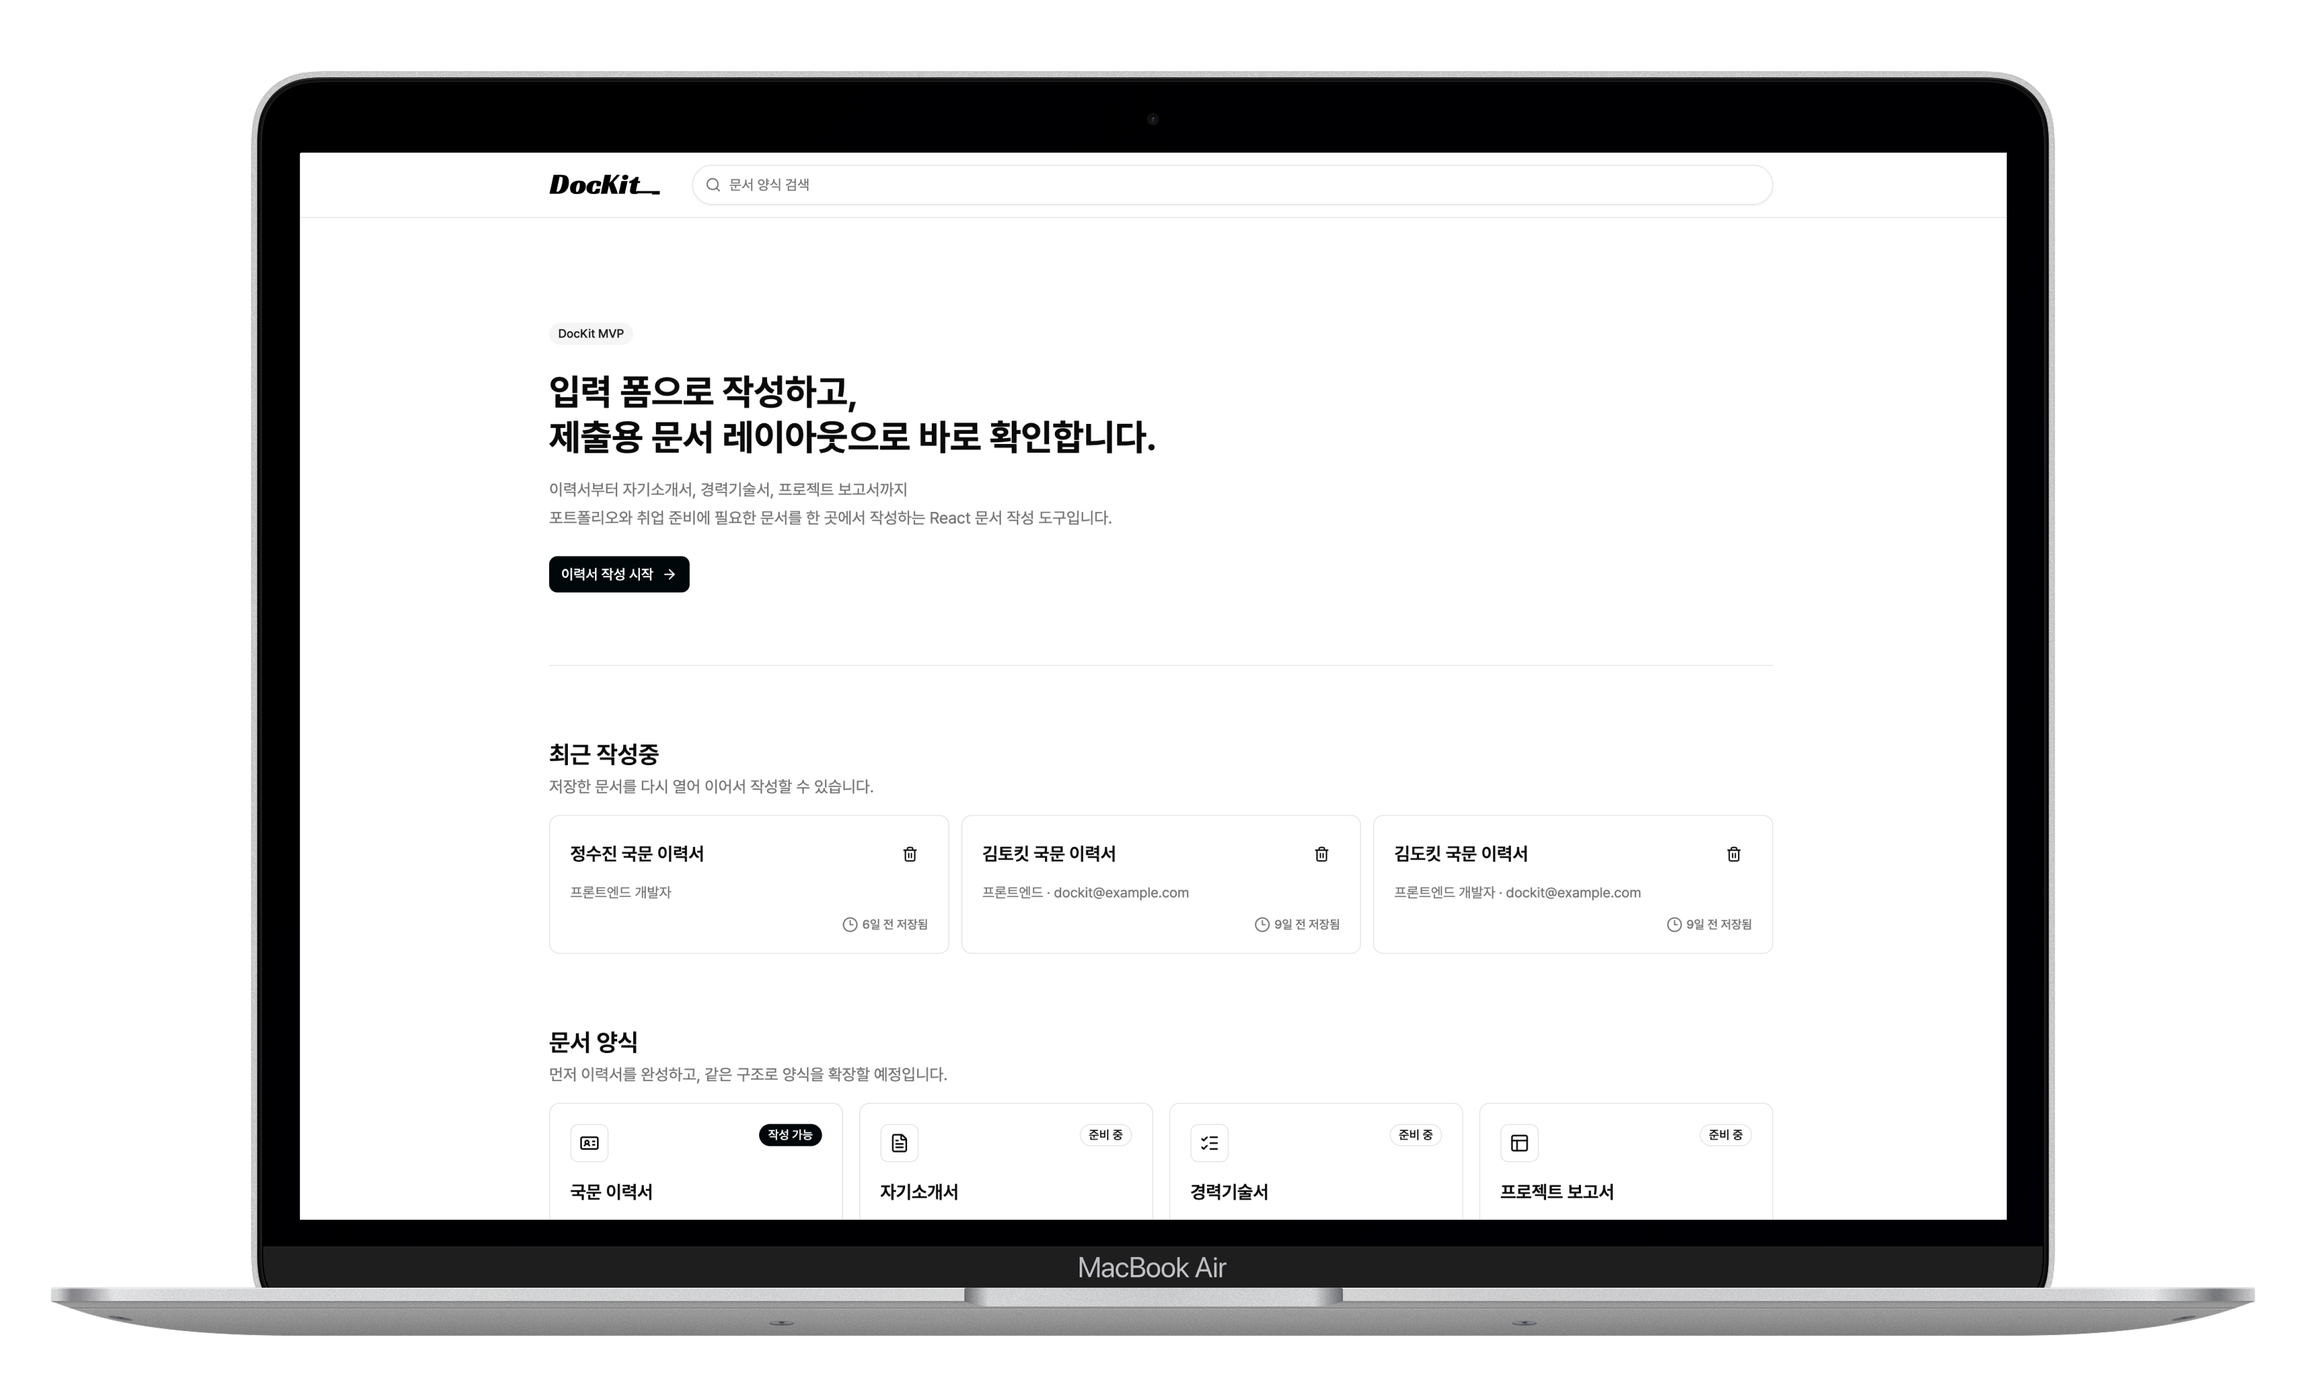
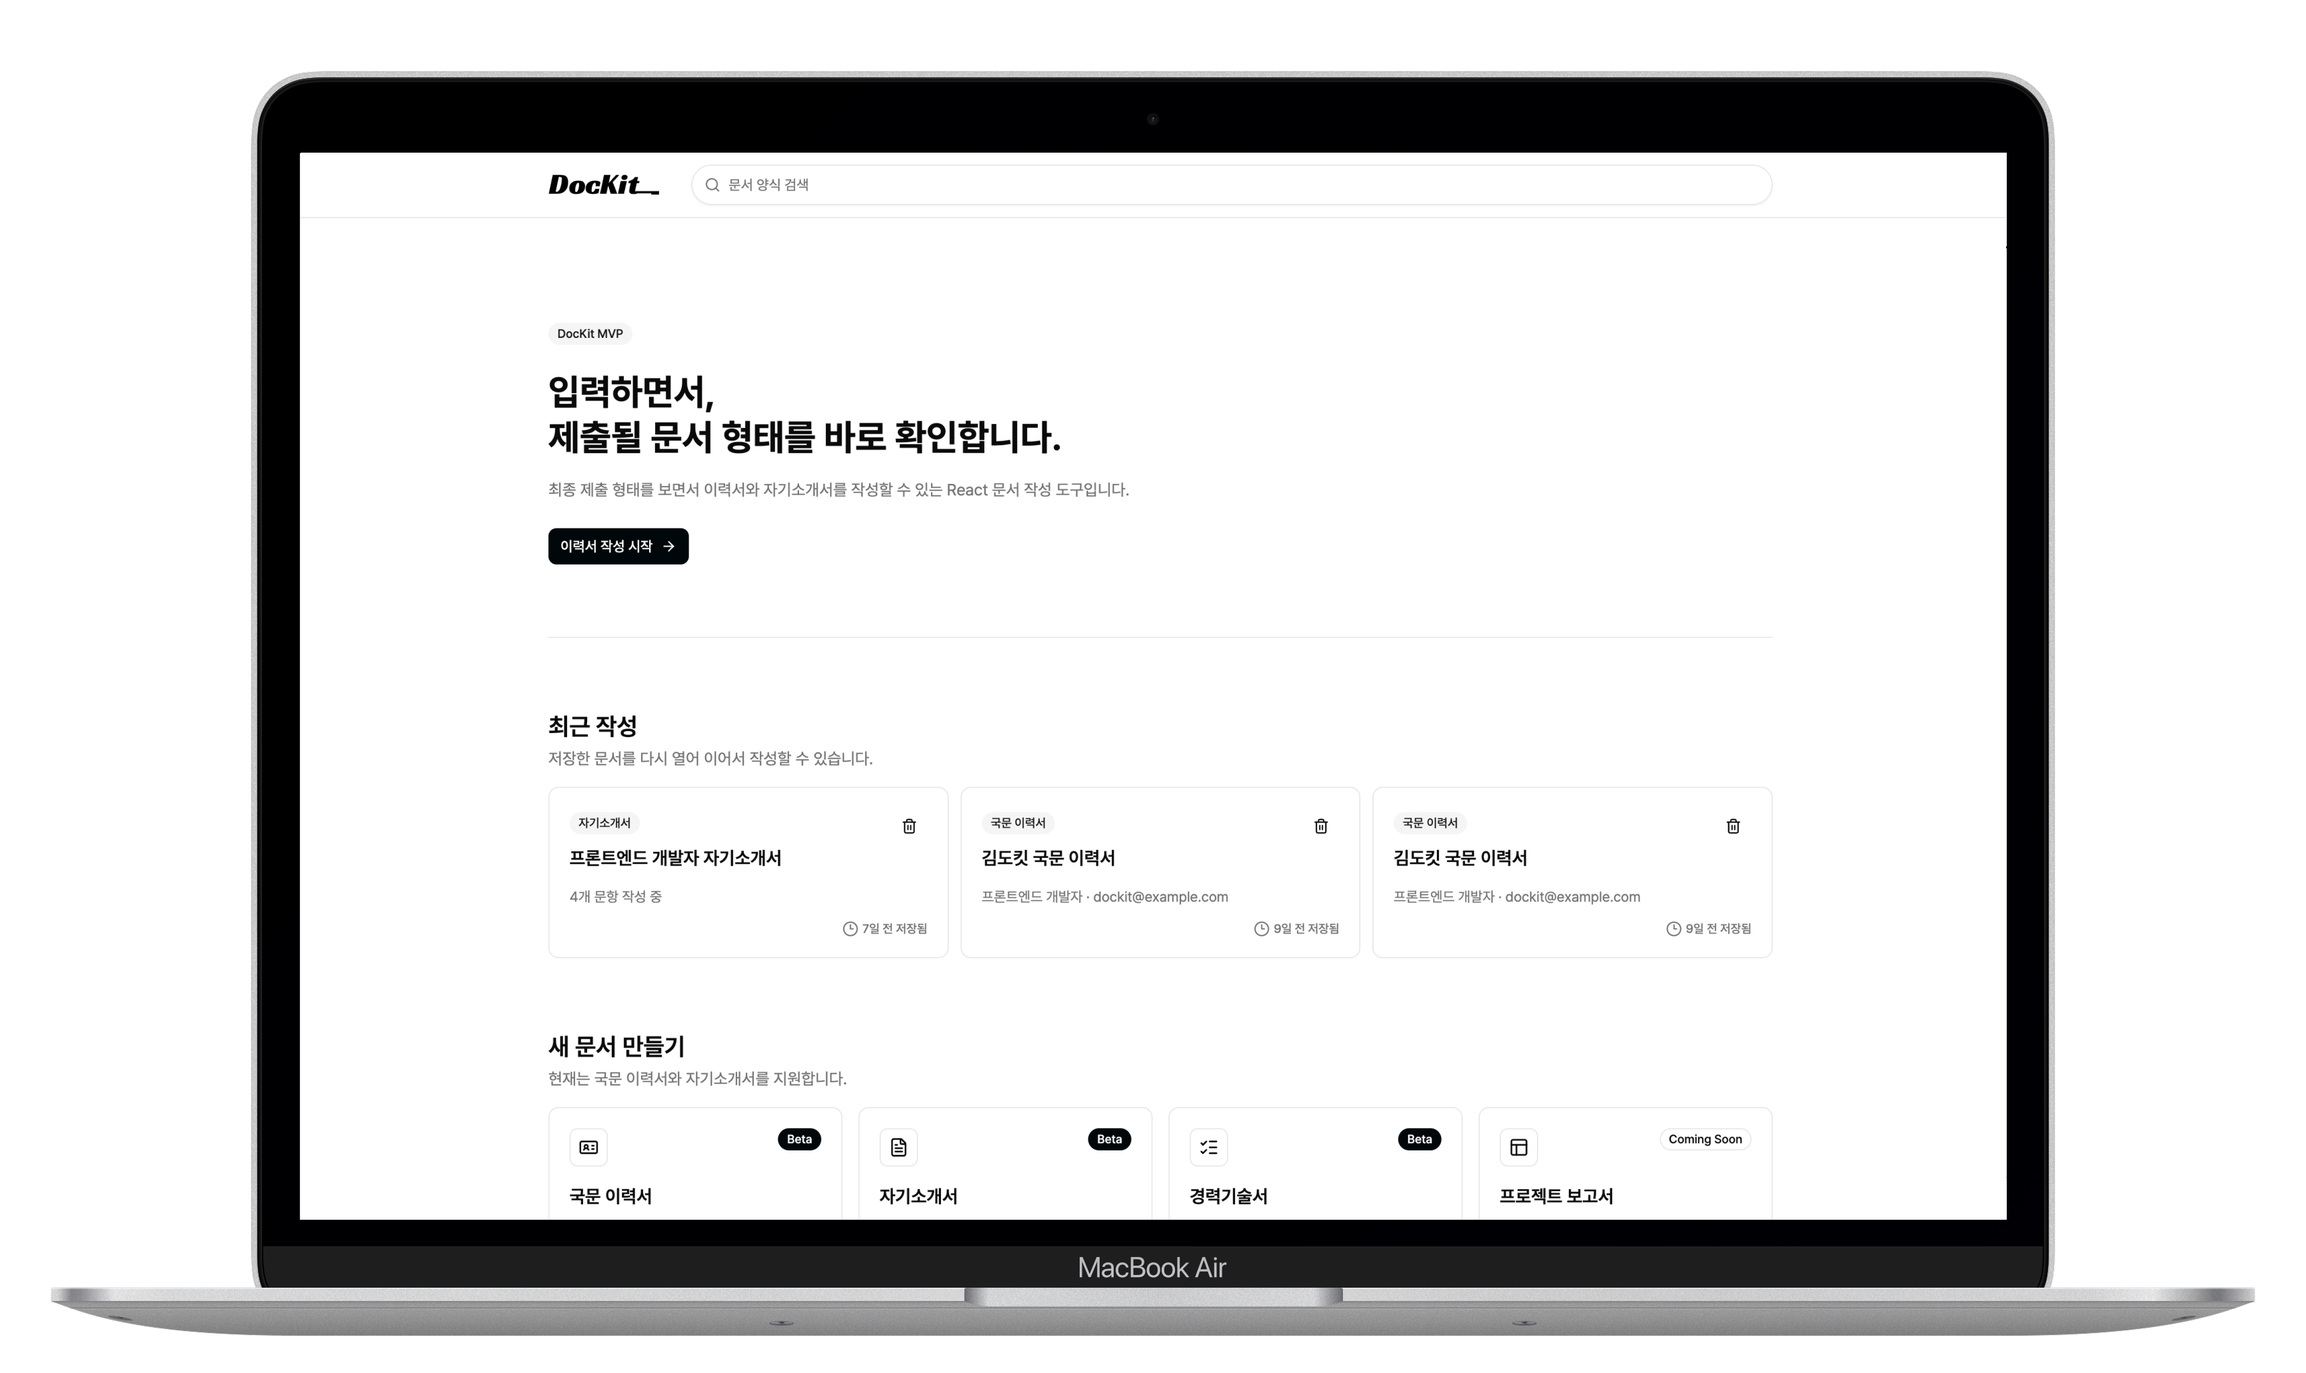
Docs: dockit 내용 업데이트

diff --git a/src/features/projects/data/projects.ts b/src/features/projects/data/projects.ts
@@ -364,17 +364,18 @@ export const projects: Project[] = [
     role: 'Frontend Developer',
     contribution: 'Frontend 100%',
     stack:
-      'React · TypeScript · Vite · Tailwind CSS · React Router · Radix UI · localStorage · Cloudflare Workers',
+      'React · TypeScript · Vite · Tailwind CSS · React Router · Radix UI · Vitest · localStorage · Cloudflare Workers',
     duration: '2026.04 - 기능 확장 중',
     summary:
-      '별도 문서 프로그램 없이 웹에서 이력서와 문서를 작성하고, A4 문서 형태로 실시간 확인할 수 있는 React + TypeScript 기반 문서 작성 도구입니다.',
+      '웹에서 이력서, 자기소개서, 경력기술서를 작성하고 제출용 문서 형태로 실시간 확인할 수 있는 React + TypeScript 기반 문서 작성 도구입니다.',
     description:
-      '별도 문서 프로그램 없이 웹에서 이력서 등 문서 양식을 작성하고, A4 문서 형태로 실시간 확인할 수 있는 React + TypeScript 기반 문서 작성 도구입니다. 입력 폼과 문서 미리보기를 하나의 상태로 연결해 작성 내용이 즉시 반영되도록 했고, PDF 저장 전 제출용 문서 형태를 미리 점검할 수 있도록 구현했습니다.',
+      '별도 문서 프로그램 없이 웹에서 국문 취업 문서를 작성하고, 제출용 문서 형태로 실시간 확인할 수 있는 React + TypeScript 기반 문서 작성 도구입니다. 입력 폼과 문서 미리보기를 하나의 상태로 연결해 작성 내용이 즉시 반영되도록 했고, 문서별 검증 규칙을 adapter로 분리해 새 양식 추가 시 반복되는 검증 구현을 줄였습니다.',
     tags: [
       'React',
       'TypeScript',
       'Responsive',
       'Accessibility',
+      'Validation',
       'localStorage',
     ],
     link: 'https://dockit.jsjweb0.workers.dev/',
@@ -382,12 +383,12 @@ export const projects: Project[] = [
     previewImages: [
       {
         src: 'images/projects/dockit_pc_1.jpg',
-        alt: 'Dockit 이력서 작성 도구 PC 화면',
-        caption: '최근 작성중 목록과 문서 양식 목록 메인 데스크톱 화면',
+        alt: 'DocKit 국문 취업 문서 작성 도구 PC 화면',
+        caption: '이력서, 자기소개서, 경력기술서 문서 양식 목록 메인 화면',
       },
       {
         src: 'images/projects/dockit_pc_2.jpg',
-        alt: 'Dockit 이력서 작성 도구 PC 화면',
+        alt: 'DocKit 국문 취업 문서 작성 도구 PC 화면',
         caption: '입력 폼과 A4 미리보기를 나란히 배치한 데스크톱 화면',
       },
       {
@@ -401,20 +402,19 @@ export const projects: Project[] = [
         type: 'overview',
         title: 'Overview',
         content:
-          '국문 이력서를 작성할 때 입력 누락, 작성 중 데이터 손실, 미리보기와 출력 결과 불일치가 생기면 실제 제출 도구로 신뢰하기 어렵다고 판단했습니다.\n\n이를 해결하기 위해 하나의 Resume 상태를 기준으로 입력 폼과 A4 미리보기를 연결하고, localStorage 저장/복원, 입력값 검증, 오류 필드 포커스 이동, print CSS 기반 PDF 저장 흐름을 구현했습니다.\n\n그 결과 작성, 검증, 저장, 출력까지 이어지는 국문 이력서 작성 MVP를 완성했고, React 상태 설계, TypeScript 모델링, 접근성 개선을 실제 사용 흐름에 맞춰 구현했습니다.',
+          '국문 취업 문서는 이력서, 자기소개서, 경력기술서처럼 문서마다 형식과 필수 입력 항목이 달라 작성 흐름이 쉽게 복잡해집니다. 입력 누락, 작성 중 데이터 손실, 미리보기와 출력 결과 불일치가 생기면 실제 제출 도구로 신뢰하기 어렵다고 판단했습니다.\n\n이를 해결하기 위해 문서별 단일 상태를 기준으로 입력 폼과 제출용 미리보기를 연결하고, localStorage 저장/복원, 입력값 검증, 오류 필드 포커스 이동, print CSS 기반 PDF 저장 흐름을 구현했습니다.\n\n이후 문서 양식이 늘어날 때 검증 로직이 Provider에 반복되는 문제를 줄이기 위해 공통 useDocumentValidation 훅과 문서별 validation adapter를 분리했습니다. 그 결과 작성, 검증, 저장, 출력까지 이어지는 문서 작성 흐름을 유지하면서 새 양식을 추가하기 쉬운 구조로 개선했습니다.',
       },
       {
         type: 'work',
         title: 'Key Work',
         content: [
-          'React + TypeScript 기반으로 이력서 데이터 타입, 기본값, 샘플 데이터 구조 설계',
-          '기본 정보, 학력, 자격증, 경력, 프로젝트, 링크, 스킬을 섹션별 입력 컴포넌트로 구성',
-          '입력 폼과 A4 문서 미리보기를 같은 상태에 연결해 작성 결과를 실시간으로 확인 가능하게 구현',
-          '반복 섹션의 추가/삭제 흐름과 필드별 유효성 검사, 오류 탭 표시, 오류 필드 포커스 이동 구현',
+          '이력서, 자기소개서, 경력기술서 문서 타입과 기본값, 샘플 데이터 구조 설계',
+          '문서별 입력 폼과 제출용 미리보기를 같은 상태에 연결해 작성 결과를 실시간으로 확인 가능하게 구현',
+          '공통 useDocumentValidation 훅과 문서별 validation adapter를 분리해 touched field 관리, 전체 검증, 첫 오류 메시지 계산 흐름 재사용',
+          '문서별 에러 구조는 유지하면서 검증 결과 반환 형식을 isValid, errors, firstMessage로 통일',
           'localStorage를 활용해 작성 중인 이력서를 저장하고 최근 작성 문서 목록에서 다시 열 수 있도록 구성',
           '브라우저 인쇄와 print CSS를 활용해 텍스트 선택/검색이 가능한 PDF 저장 흐름 구현',
           '모바일/태블릿/데스크톱 화면에서 입력과 미리보기 흐름이 무너지지 않도록 반응형 레이아웃 정리',
-          'label 연결, 버튼 상태, 다이얼로그 포커스 복귀, table caption/scope 적용으로 접근성 품질 개선',
           '입력값 검증과 저장 시간 표시 로직을 순수 함수로 분리하고 Vitest 단위 테스트 추가',
           'Vite 빌드 결과물을 Cloudflare Workers Assets로 배포하고 SPA 새로고침 대응 설정 적용',
         ],
@@ -423,18 +423,18 @@ export const projects: Project[] = [
         type: 'problem',
         title: 'Problem & Solution',
         content:
-          '문제 1: 입력 폼과 미리보기 데이터 불일치 가능성\n이력서 작성 도구는 사용자가 입력한 값이 문서 미리보기에 즉시 반영되어야 합니다. 폼과 미리보기가 각각 다른 데이터를 관리하면 수정 사항이 누락되거나 화면마다 결과가 달라질 수 있었습니다.\n해결: Resume 타입을 기준으로 하나의 상태 구조를 만들고, 폼 입력 컴포넌트와 미리보기 컴포넌트가 같은 데이터를 사용하도록 연결했습니다. 기본값과 샘플 데이터도 별도 모델 파일로 분리해 유지보수하기 쉽게 정리했습니다.\n\n문제 2: 반복 섹션 검증과 오류 탐색의 어려움\n경력, 프로젝트, 링크처럼 항목을 추가/삭제하는 섹션은 필드 구조가 반복되어 오류 처리도 흩어질 수 있었습니다. 사용자가 어떤 탭과 입력 필드를 고쳐야 하는지 바로 찾기 어려운 문제가 있었습니다.\n해결: 섹션별 컴포넌트로 역할을 나누고, 각 항목에 id를 부여해 추가/삭제와 필드 업데이트를 명확하게 처리했습니다. 유효성 검사 결과를 섹션 단위로 관리해 오류가 있는 탭을 표시하고 첫 번째 오류 필드로 포커스가 이동하도록 했습니다.\n\n문제 3: 작성 중 데이터 손실과 출력 품질 문제\n사용자가 페이지를 나가거나 다시 접속했을 때 작성하던 이력서를 잃으면 실제 도구로 사용하기 어렵습니다. 또한 이미지 캡처 방식은 빠르게 결과를 확인하기에는 좋지만, 제출용 PDF에서 텍스트 선택과 검색이 어렵다는 한계가 있었습니다.\n해결: localStorage 저장/복원 흐름을 추가해 작성 중인 이력서를 최근 작성중 목록에서 다시 열 수 있도록 구성했습니다. 작성 중인 내용이 있을 때 이탈 방지 안내를 제공하고, 브라우저 인쇄 기능과 @media print 스타일을 활용해 텍스트 선택이 가능한 PDF 저장 흐름으로 정리했습니다.',
+          '문제 1: 입력 폼과 미리보기 데이터 불일치 가능성\n이력서 작성 도구는 사용자가 입력한 값이 문서 미리보기에 즉시 반영되어야 합니다. 폼과 미리보기가 각각 다른 데이터를 관리하면 수정 사항이 누락되거나 화면마다 결과가 달라질 수 있었습니다.\n해결: Resume 타입을 기준으로 하나의 상태 구조를 만들고, 폼 입력 컴포넌트와 미리보기 컴포넌트가 같은 데이터를 사용하도록 연결했습니다. 기본값과 샘플 데이터도 별도 모델 파일로 분리해 유지보수하기 쉽게 정리했습니다.\n\n문제 2: 반복 섹션 검증과 오류 탐색의 어려움\n이력서, 자기소개서, 경력기술서는 에러 구조와 검증 필드가 서로 다릅니다. 이 차이를 각 Provider에서 직접 처리하면 touched field 관리, 전체 검증, 첫 오류 메시지 계산, 에러 개수 계산 로직이 문서마다 반복되어 새 양식을 추가할수록 유지보수가 어려워질 수 있었습니다.\n해결: 공통 useDocumentValidation 훅은 검증 상태와 touched field 흐름만 담당하도록 분리하고, 문서별 validation adapter가 필드 key 생성, 단일 필드 검증, 전체 검증, 에러 개수 계산을 맡도록 정리했습니다. 이를 통해 문서별 에러 구조는 유지하면서도 공통 검증 흐름을 재사용할 수 있게 했습니다.\n\n문제 3: 작성 중 데이터 손실과 출력 품질 문제\n사용자가 페이지를 나가거나 다시 접속했을 때 작성하던 이력서를 잃으면 실제 도구로 사용하기 어렵습니다. 또한 이미지 캡처 방식은 빠르게 결과를 확인하기에는 좋지만, 제출용 PDF에서 텍스트 선택과 검색이 어렵다는 한계가 있었습니다.\n해결: localStorage 저장/복원 흐름을 추가해 작성 중인 이력서를 최근 작성중 목록에서 다시 열 수 있도록 구성했습니다. 작성 중인 내용이 있을 때 이탈 방지 안내를 제공하고, 브라우저 인쇄 기능과 @media print 스타일을 활용해 텍스트 선택이 가능한 PDF 저장 흐름으로 정리했습니다.',
       },
       {
         type: 'tech',
         title: 'Technical Points',
         content: [
           'TypeScript 데이터 모델: Resume, Education, Experience, Project 등 문서 데이터를 타입으로 정의해 폼과 미리보기의 데이터 기준을 통일',
-          '섹션 기반 React 구조: 기본 정보, 학력, 자격증, 경력, 프로젝트, 링크, 스킬 입력을 기능 단위 컴포넌트로 분리',
           'localStorage 저장 구조: 작성 중 문서를 브라우저에 저장하고 최근 작성중 목록에서 복원할 수 있도록 구성',
-          '유효성 검사와 포커스 이동: 오류가 있는 탭과 필드를 사용자가 바로 찾을 수 있도록 상태와 포커스 흐름 정리',
-          '테스트 가능한 검증 로직: 기본 정보, 선택 섹션, 저장 시간 표시 로직을 순수 함수로 분리하고 Vitest로 주요 케이스 검증',
-          '문서 출력 전략: PNG 저장은 보조 기능으로 유지하고, 제출용 출력은 print CSS 기반 PDF 저장 흐름에 집중',
+          '공통 검증 훅: useDocumentValidation에서 touched field 관리, 단일 필드 재검증, 전체 검증, 에러 개수 계산 흐름을 공통화',
+          'Validation adapter: Resume, CoverLetter, CareerSummary별로 필드 key 생성과 검증 규칙을 분리해 새 문서 양식 추가 시 Provider 중복을 줄임',
+          '검증 결과 타입 통일: 문서별 errors 내부 구조는 유지하되 공통 훅이 사용하는 결과는 isValid, errors, firstMessage 형태로 통일',
+          '문서 출력 전략: 제출용 출력은 print CSS 기반 PDF 저장 흐름에 집중',
           '반응형 레이아웃: 데스크톱에서는 입력 폼과 미리보기를 함께 보여주고, 좁은 화면에서는 작성 흐름이 유지되도록 배치 조정',
           '접근성 개선: label/input 연결, button 상태, dialog focus return, table caption/scope 등 기본 접근성 요소 점검',
           '브라우저 이슈 대응: Safari에서 table rowSpan 높이가 즉시 재계산되지 않는 문제를 확인하고 미리보기 table 재마운트로 레이아웃 깨짐 방지',
@@ -445,7 +445,7 @@ export const projects: Project[] = [
         type: 'result',
         title: 'Result & Next Steps',
         content:
-          '입력, 검증, 저장, 미리보기, 출력 흐름을 하나의 Resume 상태 기준으로 연결하며 문서 작성 도구의 핵심 사용 흐름을 구현했습니다.\n\n다음 단계에서는 초기 번들 최적화, 브라우저별 PDF 저장 안내 개선, 자기소개서/경력기술서 작성 흐름 완성, 긴 텍스트와 인쇄 환경에 대한 출력 안정성 개선을 진행할 예정입니다.',
+          '이력서, 자기소개서, 경력기술서의 입력, 검증, 저장, 미리보기, 출력 흐름을 문서별 단일 상태 기준으로 연결했습니다. 또한 공통 useDocumentValidation 훅과 validation adapter 구조를 적용해 새 양식 추가 시 반복되는 검증 상태 관리를 줄였습니다.\n\n다음 단계에서는 문서별 validation adapter 테스트 보강, 초기 번들 최적화, 브라우저별 PDF 저장 안내 개선, 긴 텍스트와 인쇄 환경에 대한 출력 안정성 개선을 진행할 예정입니다.',
       },
     ],
   },
